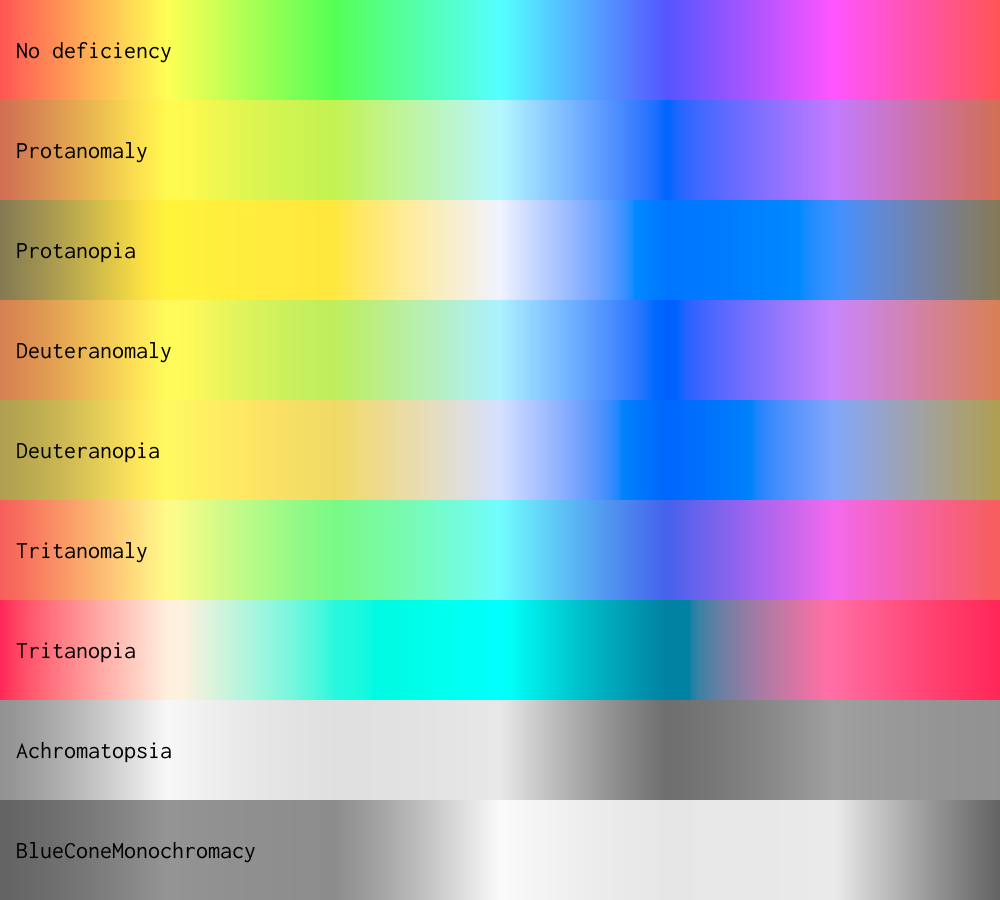
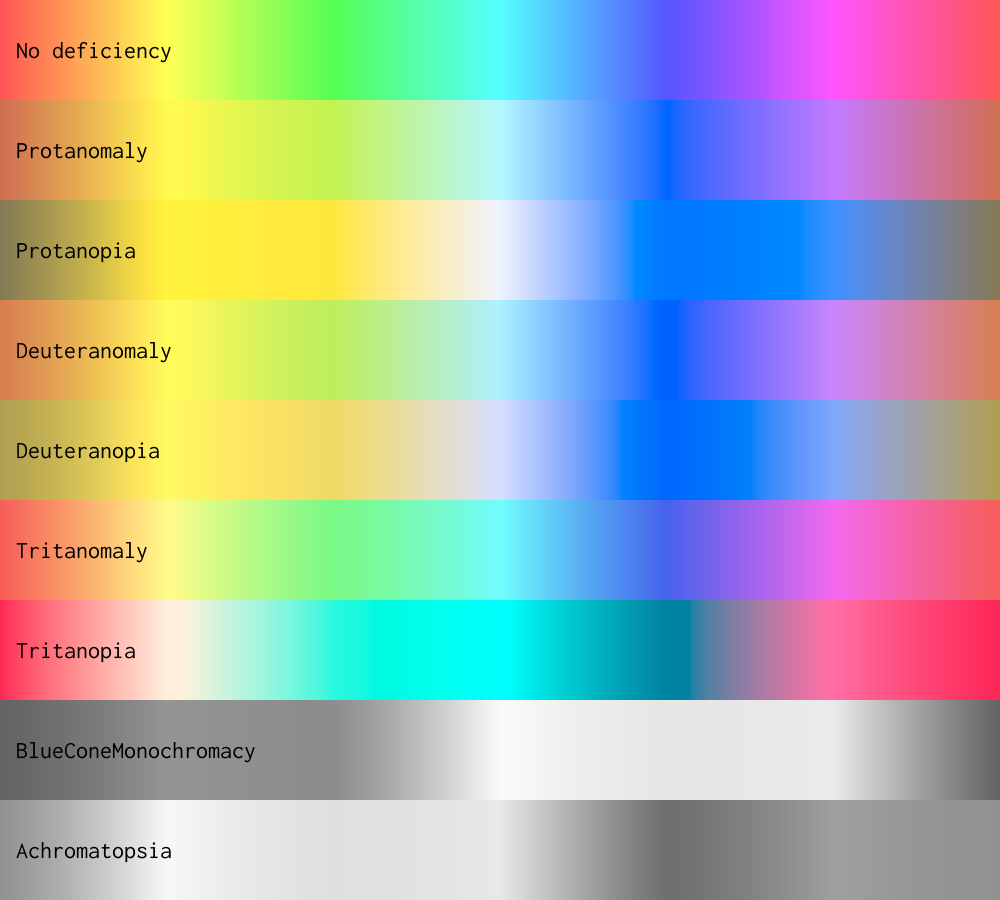
Update README.md

Changed region(s): [[0.0, 0.7778, 0.465, 1.0], [0.496, 0.7778, 0.899, 1.0], [0.961, 0.7778, 1.0, 1.0]]

diff --git a/Unicolour.Tests/VisionDeficiencyTests.cs b/Unicolour.Tests/VisionDeficiencyTests.cs
@@ -81,7 +81,7 @@ public class VisionDeficiencyTests
     }
 
     [Test]
-    public void NotNumber([Values(Cvd.Protanopia, Cvd.Protanomaly, Cvd.Deuteranopia, Cvd.Deuteranomaly, Cvd.Tritanopia, Cvd.Tritanomaly, Cvd.Achromatopsia, Cvd.BlueConeMonochromacy)] Cvd cvd)
+    public void NotNumber([Values(Cvd.Protanopia, Cvd.Protanomaly, Cvd.Deuteranopia, Cvd.Deuteranomaly, Cvd.Tritanopia, Cvd.Tritanomaly, Cvd.BlueConeMonochromacy, Cvd.Achromatopsia)] Cvd cvd)
     {
         var colour = new Unicolour(ColourSpace.Rgb, double.NaN, double.NaN, double.NaN);
         var simulatedColour = colour.Simulate(cvd);
@@ -90,7 +90,7 @@ public class VisionDeficiencyTests
     
     [Test]
     public void DifferentConfig(
-        [Values(Cvd.Protanopia, Cvd.Protanomaly, Cvd.Deuteranopia, Cvd.Deuteranomaly, Cvd.Tritanopia, Cvd.Tritanomaly, Cvd.Achromatopsia, Cvd.BlueConeMonochromacy)] Cvd cvd,
+        [Values(Cvd.Protanopia, Cvd.Protanomaly, Cvd.Deuteranopia, Cvd.Deuteranomaly, Cvd.Tritanopia, Cvd.Tritanomaly, Cvd.BlueConeMonochromacy, Cvd.Achromatopsia)] Cvd cvd,
         [Values(0, 0.25, 0.5, 0.75, 1)] double severity)
     {
         var rgbD65 = new Unicolour(Configuration.Default, ColourSpace.Rgb, 1.0, 0.5, 0.25);

diff --git a/Unicolour/VisionDeficiency.cs b/Unicolour/VisionDeficiency.cs
@@ -21,8 +21,8 @@ public static class VisionDeficiency
             Cvd.Deuteranomaly => ApplySimulation(colour, DeuteranomalyRgbSim, severity),
             Cvd.Tritanopia => ApplySimulation(colour, TritanomalyRgbSim, 1.0),
             Cvd.Tritanomaly => ApplySimulation(colour, TritanomalyRgbSim, severity),
-            Cvd.Achromatopsia => new(ColourSpace.RgbLinear, colour.RelativeLuminance, colour.RelativeLuminance, colour.RelativeLuminance),
             Cvd.BlueConeMonochromacy => ApplySimulation(colour, BlueConeMonochromacyLmsSim),
+            Cvd.Achromatopsia => new(ColourSpace.RgbLinear, colour.RelativeLuminance, colour.RelativeLuminance, colour.RelativeLuminance),
             _ => throw new ArgumentOutOfRangeException(nameof(cvd), cvd, null)
         };
         

diff --git a/Example.Gradients/Program.cs b/Example.Gradients/Program.cs
@@ -139,7 +139,7 @@ void VisionDeficiency()
         Cvd.Protanomaly, Cvd.Protanopia, 
         Cvd.Deuteranomaly, Cvd.Deuteranopia, 
         Cvd.Tritanomaly, Cvd.Tritanopia,
-        Cvd.Achromatopsia, Cvd.BlueConeMonochromacy
+        Cvd.BlueConeMonochromacy, Cvd.Achromatopsia
     };
     
     var rows = cvds

diff --git a/Unicolour/Cvd.cs b/Unicolour/Cvd.cs
@@ -8,6 +8,6 @@ public enum Cvd
     Deuteranomaly,
     Tritanopia,
     Tritanomaly,
-    Achromatopsia,
-    BlueConeMonochromacy
+    BlueConeMonochromacy,
+    Achromatopsia
 }

diff --git a/Unicolour.Readme/README.md b/Unicolour.Readme/README.md
@@ -3,7 +3,7 @@
 [![GitLab](https://badgen.net/static/gitlab/source/ff1493?icon=gitlab)](https://gitlab.com/Wacton/Unicolour)
 [![NuGet](https://badgen.net/nuget/v/Wacton.Unicolour?icon)](https://www.nuget.org/packages/Wacton.Unicolour/)
 [![pipeline status](https://gitlab.com/Wacton/Unicolour/badges/main/pipeline.svg)](https://gitlab.com/Wacton/Unicolour/-/commits/main)
-[![tests passed](https://badgen.net/static/tests/223,248/green/)](https://gitlab.com/Wacton/Unicolour/-/pipelines)
+[![tests passed](https://badgen.net/static/tests/223,325/green/)](https://gitlab.com/Wacton/Unicolour/-/pipelines)
 [![coverage report](https://gitlab.com/Wacton/Unicolour/badges/main/coverage.svg)](https://gitlab.com/Wacton/Unicolour/-/pipelines)
 
 Unicolour is the most comprehensive .NET library for working with colour:
@@ -389,12 +389,16 @@ var colour = new Unicolour(ColourSpace.Rgb255, 192, 255, 238);
 var noRed = colour.Simulate(Cvd.Protanopia);
 ```
 
-| Colour&nbsp;vision&nbsp;deficiency                  | Enum                |
-|-----------------------------------------------------|---------------------|
-| Protanopia&nbsp;(no&nbsp;red&nbsp;perception)       | `Cvd.Protanopia`    |
-| Deuteranopia&nbsp;(no&nbsp;green&nbsp;perception)   | `Cvd.Deuteranopia`  |
-| Tritanopia&nbsp;(no&nbsp;blue&nbsp;perception)      | `Cvd.Tritanopia`    |
-| Achromatopsia&nbsp;(no&nbsp;colour&nbsp;perception) | `Cvd.Achromatopsia` |
+| Colour&nbsp;vision&nbsp;deficiency                                                    | Enum                       |
+|---------------------------------------------------------------------------------------|----------------------------|
+| Protanopia&nbsp;(missing&nbsp;red&nbsp;cones)                                         | `Cvd.Protanopia`           |
+| Protanomaly&nbsp;(defective&nbsp;red&nbsp;cones)                                      | `Cvd.Protanomaly`          |
+| Deuteranopia&nbsp;(missing&nbsp;green&nbsp;cones)                                     | `Cvd.Deuteranopia`         |
+| Deuteranomaly&nbsp;(defective&nbsp;green&nbsp;cones)                                  | `Cvd.Deuteranomaly`        |
+| Tritanopia&nbsp;(missing&nbsp;blue&nbsp;cones)                                        | `Cvd.Tritanopia`           |
+| Tritanomaly&nbsp;(defective&nbsp;blue&nbsp;cones)                                     | `Cvd.Tritanomaly`          |
+| Blue&nbsp;cone&nbsp;monochromacy&nbsp;(missing&nbsp;red&nbsp;&&nbsp;green&nbsp;cones) | `Cvd.BlueConeMonochromacy` |
+| Achromatopsia&nbsp;(missing&nbsp;all&nbsp;cones)                                      | `Cvd.Achromatopsia`        |
 
 ### Convert between colour and temperature
 Correlated colour temperature (CCT) and delta UV (∆<sub>uv</sub>) of a colour can be ascertained, and can be used to create a colour.

diff --git a/README.md b/README.md
@@ -3,7 +3,7 @@
 [![GitLab](https://badgen.net/static/gitlab/source/ff1493?icon=gitlab)](https://gitlab.com/Wacton/Unicolour)
 [![NuGet](https://badgen.net/nuget/v/Wacton.Unicolour?icon)](https://www.nuget.org/packages/Wacton.Unicolour/)
 [![pipeline status](https://gitlab.com/Wacton/Unicolour/badges/main/pipeline.svg)](https://gitlab.com/Wacton/Unicolour/-/commits/main)
-[![tests passed](https://badgen.net/static/tests/223,248/green/)](https://gitlab.com/Wacton/Unicolour/-/pipelines)
+[![tests passed](https://badgen.net/static/tests/223,325/green/)](https://gitlab.com/Wacton/Unicolour/-/pipelines)
 [![coverage report](https://gitlab.com/Wacton/Unicolour/badges/main/coverage.svg)](https://gitlab.com/Wacton/Unicolour/-/pipelines)
 
 Unicolour is the most comprehensive .NET library for working with colour:

diff --git a/docs/README.md b/docs/README.md
@@ -3,7 +3,7 @@
 [![GitLab](https://badgen.net/static/gitlab/source/ff1493?icon=gitlab)](https://gitlab.com/Wacton/Unicolour)
 [![NuGet](https://badgen.net/nuget/v/Wacton.Unicolour?icon)](https://www.nuget.org/packages/Wacton.Unicolour/)
 [![pipeline status](https://gitlab.com/Wacton/Unicolour/badges/main/pipeline.svg)](https://gitlab.com/Wacton/Unicolour/-/commits/main)
-[![tests passed](https://badgen.net/static/tests/223,248/green/)](https://gitlab.com/Wacton/Unicolour/-/pipelines)
+[![tests passed](https://badgen.net/static/tests/223,325/green/)](https://gitlab.com/Wacton/Unicolour/-/pipelines)
 [![coverage report](https://gitlab.com/Wacton/Unicolour/badges/main/coverage.svg)](https://gitlab.com/Wacton/Unicolour/-/pipelines)
 
 Unicolour is the most comprehensive .NET library for working with colour:

diff --git a/docs/README_us.md b/docs/README_us.md
@@ -3,7 +3,7 @@
 [![GitLab](https://badgen.net/static/gitlab/source/ff1493?icon=gitlab)](https://gitlab.com/Wacton/Unicolour)
 [![NuGet](https://badgen.net/nuget/v/Wacton.Unicolour?icon)](https://www.nuget.org/packages/Wacton.Unicolour/)
 [![pipeline status](https://gitlab.com/Wacton/Unicolour/badges/main/pipeline.svg)](https://gitlab.com/Wacton/Unicolour/-/commits/main)
-[![tests passed](https://badgen.net/static/tests/223,248/green/)](https://gitlab.com/Wacton/Unicolour/-/pipelines)
+[![tests passed](https://badgen.net/static/tests/223,325/green/)](https://gitlab.com/Wacton/Unicolour/-/pipelines)
 [![coverage report](https://gitlab.com/Wacton/Unicolour/badges/main/coverage.svg)](https://gitlab.com/Wacton/Unicolour/-/pipelines)
 
 Unicolour is the most comprehensive .NET library for working with color:
